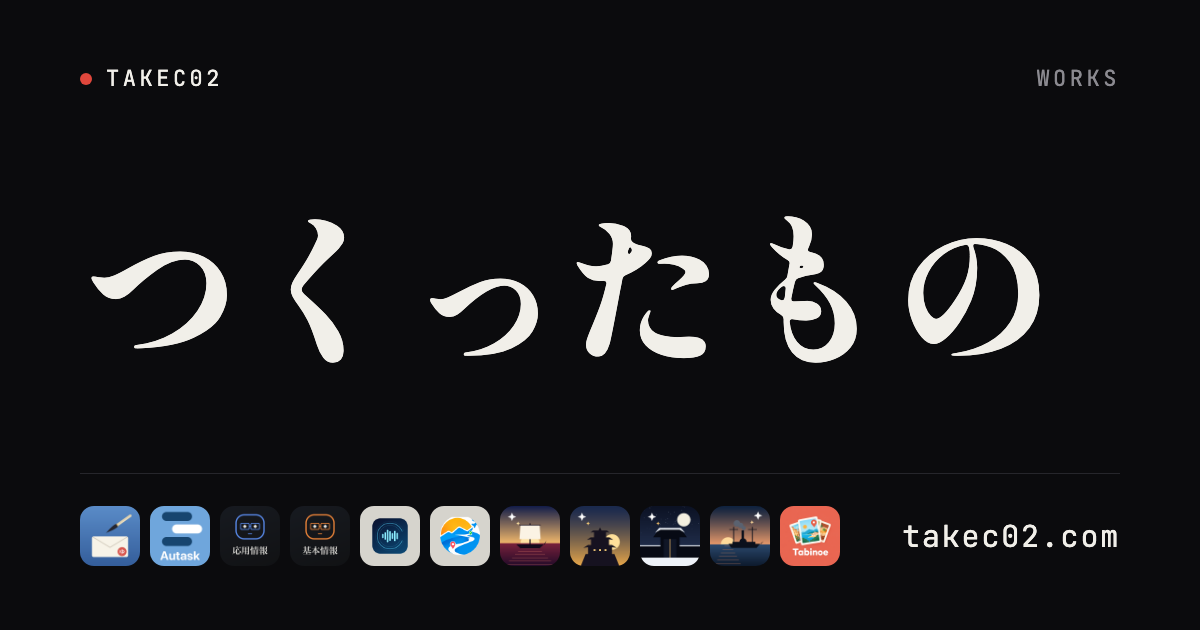
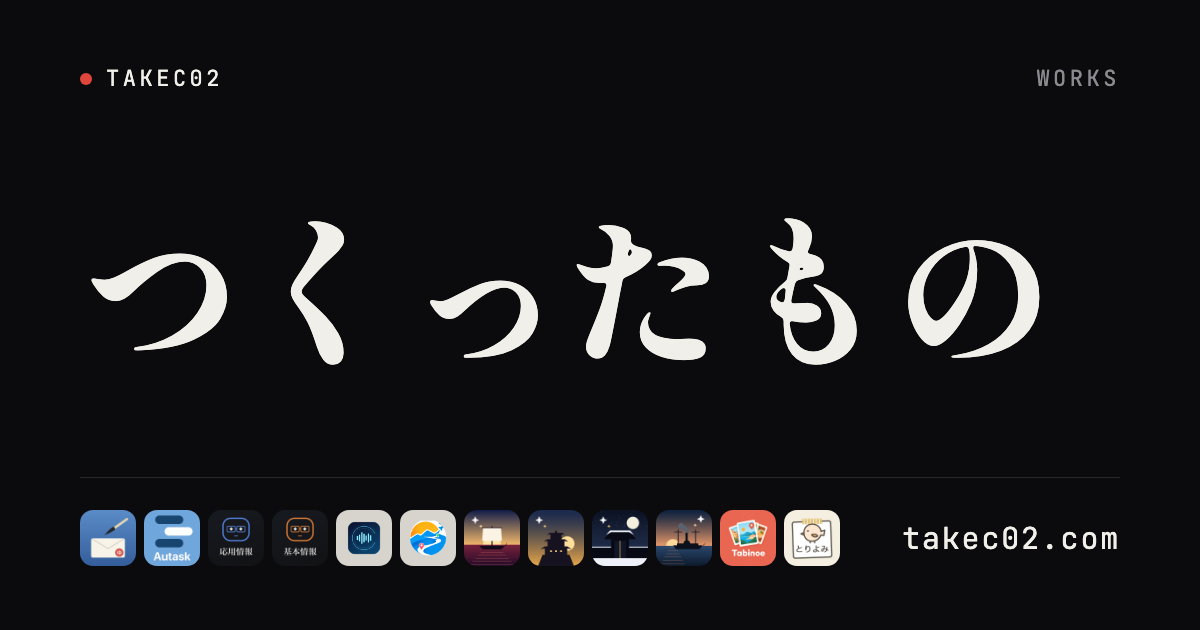
とりよみ家計簿を準備中として追加

diff --git a/index.html b/index.html
@@ -177,6 +177,17 @@
       </div>
     </article>
 
+    <article class="card" data-status="soon" style="--g:linear-gradient(165deg,#f7efe0 0%,#fbe0c8 55%,#e8c67c 100%)">
+      <div class="card-top">
+        <img class="icon" src="icons/toriyomi.png" alt="とりよみ家計簿" loading="lazy">
+      </div>
+      <div class="card-body">
+        <h2>とりよみ家計簿</h2>
+        <p>レシートを撮るだけで品物ごとに分けて記録する、どこにも送らない家計簿。</p>
+        <p class="meta">iPhone　近日公開予定</p>
+      </div>
+    </article>
+
   </section>
 
   <footer class="footer">
